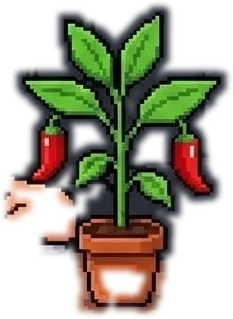
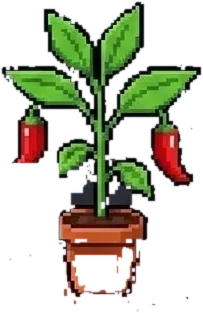
Café más fluido (posición intermedia y fundidos), planta crecida por delante de las manos y recorte ajustado de la planta
Claude-Session: https://claude.ai/code/session_01QwGSbvem29DWb2e6E1Uaf5

diff --git a/src/scripts/avatar.ts b/src/scripts/avatar.ts
@@ -13,7 +13,7 @@ type PieceMeta = { x: number; y: number; head: boolean; erase?: { x: number; y: 
 type Meta = { size: number; pieces: Record<string, PieceMeta> };
 /** Un rectángulo suelto (x, y, ancho, alto, color) en coordenadas del lienzo: gotas, «z»… */
 type Rect = [number, number, number, number, string];
-type Pose = { pieces: string[]; head: [number, number]; rects?: Rect[] };
+type Pose = { pieces: string[]; head: [number, number]; rects?: Rect[]; /** Opacidad de las piezas que no van al 100 % (fundidos y estelas). */ alpha?: Record<string, number> };
 
 export type AvatarState = 'hero' | 'projects' | 'experience' | 'studies' | 'contact' | 'hogarnizer';
 
@@ -188,14 +188,21 @@ const REACTIONS: Record<string, (k: number) => Pose> = {
       rects: k >= 5 ? waterDrops(k) : [],
     };
   },
-  // Café: coge la taza (desaparece de la mesa), la sube, da un sorbo y pone cara de «ahh».
+  // Café: la taza de la mesa se desvanece mientras aparece en su mano (pecho), sube con un fotograma de estela, da el
+  // sorbo y vuelve a la mesa. Las posturas con la cara van con la cabeza fija.
   cafe: (k) => {
-    if (k < 5) return { pieces: ['taza-sube', 'ojos-izq', 'boca-sonrisa-cerrada'], head: [0, 0] };
-    if (k < 22) {
-      const gulp = (k - 5) % 8 === 7; // de vez en cuando baja la taza un momento
-      return { pieces: gulp ? ['taza-sube', 'ojos-cerrados'] : ['taza-boca'], head: [0, 0] };
-    }
+    const still: [number, number] = [0, 0];
+    if (k < 2) return { pieces: ['taza-sube', 'ojos-izq', 'boca-sonrisa-cerrada'], head: still, alpha: { 'taza-sube': k === 0 ? 0.4 : 0.8 } };
+    if (k < 6) return { pieces: ['taza-sube', 'ojos-izq', 'boca-sonrisa-cerrada'], head: still };
+    if (k === 6) return { pieces: ['taza-sube', 'taza-cerca'], head: still, alpha: { 'taza-sube': 0.55, 'taza-cerca': 0.55 } };
+    if (k === 7) return { pieces: ['taza-cerca'], head: still };
+    if (k < 10) return { pieces: ['taza-boca'], head: still };
+    if (k < 20) return { pieces: k === 15 || k === 16 ? ['taza-cerca'] : ['taza-boca'], head: still }; // un trago: baja un poco la taza
+    if (k === 20) return { pieces: ['taza-cerca'], head: still };
+    if (k === 21) return { pieces: ['taza-sube', 'taza-cerca'], head: still, alpha: { 'taza-sube': 0.55, 'taza-cerca': 0.55 } };
+    if (k < 24) return { pieces: ['taza-sube', 'ojos-felices', 'boca-ahh'], head: bob(k, 6, 3) };
     if (k < 31) return { pieces: ['taza-sube', 'ojos-felices', 'boca-ahh'], head: bob(k, 6, 3) };
+    if (k < 33) return { pieces: ['taza-sube', 'ojos-felices', 'boca-ahh'], head: bob(k, 6, 3), alpha: { 'taza-sube': k === 31 ? 0.6 : 0.25 } };
     return { pieces: [...steam(k), 'ojos-felices', 'boca-sonrisa-cerrada'], head: bob(k, 8, 3) };
   },
   portatil: (k) => ({ pieces: [...steam(k), ...typing(k, 1), 'cejas-fruncidas', 'ojos-pantalla'], head: [-14, 12 + (k % 2) * 2] }),
@@ -349,8 +356,10 @@ export async function startAvatar(
         on = [...on, best];
       }
     }
-    // Planta crecida: va la primera, para que las manos y la regadera queden por delante de sus hojas.
-    if (grown && !on.includes('planta-feliz') && 'planta-feliz' in meta.pieces) on = ['planta-feliz', ...on];
+    // Planta crecida: por delante de las manos del teclado (están detrás de ella), pero por detrás de la regadera.
+    if (grown && !on.includes('planta-feliz') && 'planta-feliz' in meta.pieces) {
+      on = on.includes('regadera') ? ['planta-feliz', ...on] : [...on, 'planta-feliz'];
+    }
     const c = ctx!;
     c.clearRect(0, 0, meta.size, meta.size);
     c.drawImage(scene, 0, 0);
@@ -358,7 +367,9 @@ export async function startAvatar(
       const e = meta.pieces[p].erase;
       if (!e) continue;
       c.globalCompositeOperation = 'destination-out';
+      c.globalAlpha = pose.alpha?.[p] ?? 1;
       c.drawImage(erasers[p], e.x, e.y);
+      c.globalAlpha = 1;
       c.globalCompositeOperation = 'source-over';
     }
     if (frameImg && frameFrom >= 0) {
@@ -374,11 +385,16 @@ export async function startAvatar(
       c.imageSmoothingEnabled = true;
     }
     // Primero lo que va fuera de la cabeza (manos, vapor…), luego la cabeza y sus piezas.
-    for (const p of on) if (!meta.pieces[p].head) c.drawImage(piece[p], meta.pieces[p].x, meta.pieces[p].y);
+    const draw1 = (p: string, dx: number, dy: number) => {
+      c.globalAlpha = pose.alpha?.[p] ?? 1;
+      c.drawImage(piece[p], meta.pieces[p].x + dx, meta.pieces[p].y + dy);
+      c.globalAlpha = 1;
+    };
+    for (const p of on) if (!meta.pieces[p].head) draw1(p, 0, 0);
     c.drawImage(head, hx, hy);
     for (const p of on) {
       const m = meta.pieces[p];
-      if (m.head) c.drawImage(piece[p], m.x + hx, m.y + hy);
+      if (m.head) draw1(p, hx, hy);
     }
     // Lo dibujado a mano (gotas, «z»…): rectángulos del tamaño de un píxel de la ilustración.
     if (pose.rects) {

diff --git a/scripts/build-avatar.py b/scripts/build-avatar.py
@@ -19,6 +19,7 @@ cambios sueltos que mete Gemini en el resto) y con el borde suavizado para que n
 Uso: python3 scripts/build-avatar.py   (necesita Pillow con WebP y numpy)
 """
 import json
+import os
 from pathlib import Path
 
 import numpy as np
@@ -56,12 +57,14 @@ PIECES = {
     "saludo-2": ((200, 330, 540, 640), False),
     # Café: la taza sale de la mesa (`MUG`: se borra de la escena) y sube a la boca. Las de la cara van con la cabeza.
     "taza-sube": ((90, 300, 520, 830), False, MUG),
+    "taza-cerca": ((90, 260, 700, 830), True, MUG),
     "taza-boca": ((90, 260, 700, 830), True, MUG),
     "ojos-felices": ((470, 240, 650, 345), True),
     "boca-ahh": ((480, 345, 650, 480), True),
     # Riego: la regadera sobre la planta y la planta ya crecida, con guindillas.
     "regadera": ((300, 440, 720, 730), False),
-    "planta-feliz": ((560, 540, 790, 870), False),
+    # Sin el rectángulo de las manos del teclado: la planta va por delante de ellas y no debe pisarlas.
+    "planta-feliz": ((560, 540, 790, 870), False, None, (470, 722, 632, 810), True),
     # Bostezo.
     "ojos-somnolientos": ((470, 240, 650, 345), True),
     "ojos-bostezo": ((470, 240, 650, 345), True),
@@ -136,27 +139,33 @@ def save(rgb, alpha, path, crop=None):
 def main():
     (OUT / "piezas").mkdir(parents=True, exist_ok=True)
     base = load("base.jpg")
+    only = set(filter(None, os.environ.get("ONLY", "").split(",")))  # ONLY=pieza,otra: solo esas piezas
 
-    # --- Cabeza: silueta de la capa cian, píxeles de la base (idénticos al dibujo original).
-    head_rgb = load("capa-cabeza.jpg")
-    cyan = (head_rgb[:, :, 0] < 90) & (head_rgb[:, :, 1] > 190) & (head_rgb[:, :, 2] > 190)
-    head = grow(shrink(~cyan, 2), 4)  # sin motas, y con el contorno incluido
-    head_alpha = feather(head, 1.2) * pink_alpha(base)
-    save(base, head_alpha, OUT / "cabeza.webp")
+    if not only:
+        # --- Cabeza: silueta de la capa cian, píxeles de la base (idénticos al dibujo original).
+        head_rgb = load("capa-cabeza.jpg")
+        cyan = (head_rgb[:, :, 0] < 90) & (head_rgb[:, :, 1] > 190) & (head_rgb[:, :, 2] > 190)
+        head = grow(shrink(~cyan, 2), 4)  # sin motas, y con el contorno incluido
+        head_alpha = feather(head, 1.2) * pink_alpha(base)
+        save(base, head_alpha, OUT / "cabeza.webp")
 
-    # --- Escena: la imagen sin cabeza, sin el fondo rosa.
-    scene = load("sin-cabeza.jpg")
-    # Fuera de la zona de la cabeza, mejor la base tal cual (Gemini retoca cosas sueltas).
-    head_zone = grow(head, 30)
-    zone = feather(head_zone, 8)[:, :, None]
-    scene = scene * zone + base * (1 - zone)
-    save(scene, pink_alpha(scene), OUT / "escena.webp")
+        # --- Escena: la imagen sin cabeza, sin el fondo rosa.
+        scene = load("sin-cabeza.jpg")
+        # Fuera de la zona de la cabeza, mejor la base tal cual (Gemini retoca cosas sueltas).
+        head_zone = grow(head, 30)
+        zone = feather(head_zone, 8)[:, :, None]
+        scene = scene * zone + base * (1 - zone)
+        save(scene, pink_alpha(scene), OUT / "escena.webp")
 
     # --- Piezas
-    meta = {"size": SIZE, "pieces": {}}
+    meta = json.loads((OUT / "avatar.json").read_text()) if only else {"size": SIZE, "pieces": {}}
     for name, spec in PIECES.items():
+        if only and name not in only:
+            continue
         (x0, y0, x1, y1), on_head = spec[0], spec[1]
         erase_rect = spec[2] if len(spec) > 2 else None
+        exclude = spec[3] if len(spec) > 3 else None
+        tight = spec[4] if len(spec) > 4 else False  # recorte pegado al cambio, sin el margen suave (no vela lo que hay detrás)
         if not (ART / f"{name}.jpg").exists():
             print("sin imagen (se omite):", name)
             continue
@@ -165,9 +174,16 @@ def main():
         region = np.zeros_like(diff)
         region[y0:y1, x0:x1] = True
         diff &= region
+        if exclude:
+            ex0, ey0, ex1, ey1 = exclude
+            diff[ey0:ey1, ex0:ex1] = False
         # Fuera ruido del JPG (motas sueltas) y ensanchado para llevarse el borde del cambio.
-        diff = grow(shrink(grow(diff, 2), 3), 6) & region
-        alpha = feather(diff, 3) * pink_alpha(var)
+        if tight:
+            diff = shrink(grow(diff, 1), 1) & region
+            alpha = feather(diff, 0.7) * pink_alpha(var)
+        else:
+            diff = grow(shrink(grow(diff, 2), 3), 6) & region
+            alpha = feather(diff, 3) * pink_alpha(var)
         ys, xs = np.where(alpha > 0.01)
         if not len(xs):
             print("pieza vacía:", name)

diff --git a/README.md b/README.md
@@ -116,7 +116,10 @@ fotogramas que se alternan) usan piezas propias de `art/avatar/` (`taza-sube`, `
 `planta-feliz`, `ojos-somnolientos`, `ojos-bostezo`, `boca-bostezo`, `mano-boca`, `ojos-felices`, `boca-ahh`,
 `saludo-2`). Una pieza solo añade píxeles; las que se llevan algo de la escena (la taza de la mesa) llevan su
 máscara de borrado (`*.borra.webp`, se pinta con `destination-out`; el rectángulo está en `PIECES` como tercer
-valor). Las gotas y las «z» no son imágenes: son rectángulos de 1×1 o 2×2 píxeles de ilustración que dibuja
+valor). Al regar, la planta se queda crecida (`planta-feliz`, que se pinta por delante de las manos del teclado y por detrás de
+la regadera; su recorte es ajustado para no velar lo que tiene detrás). El sorbo del café pasa por cuatro posiciones
+(`taza-sube`, `taza-cerca`, `taza-boca`) con fundidos y un fotograma de estela entre ellas (`alpha` de la pose). Para
+regenerar solo alguna pieza: `ONLY=planta-feliz python3 scripts/build-avatar.py`. Las gotas y las «z» no son imágenes: son rectángulos de 1×1 o 2×2 píxeles de ilustración que dibuja
 `avatar.ts` (`rects` de la pose). Las piezas que tapan la cara van «con la cabeza» y se pinta la cabeza fija
 (`head: [0, 0]`) mientras están puestas.
 
